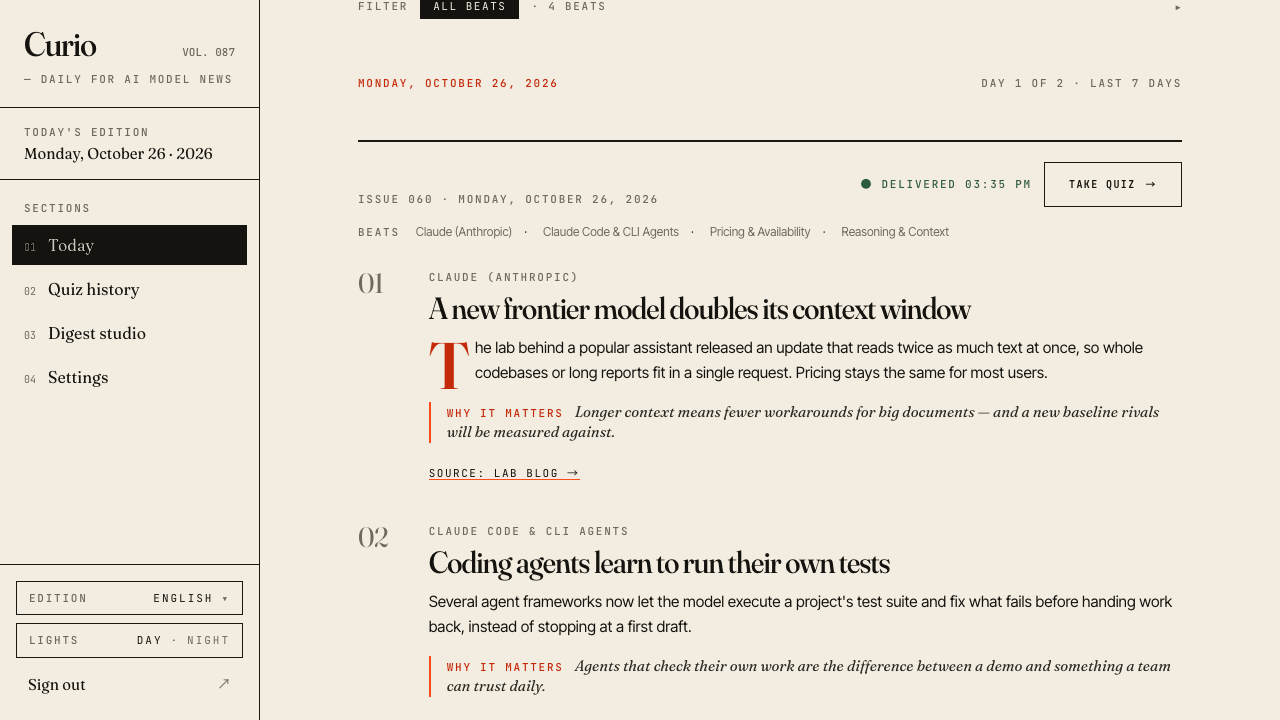
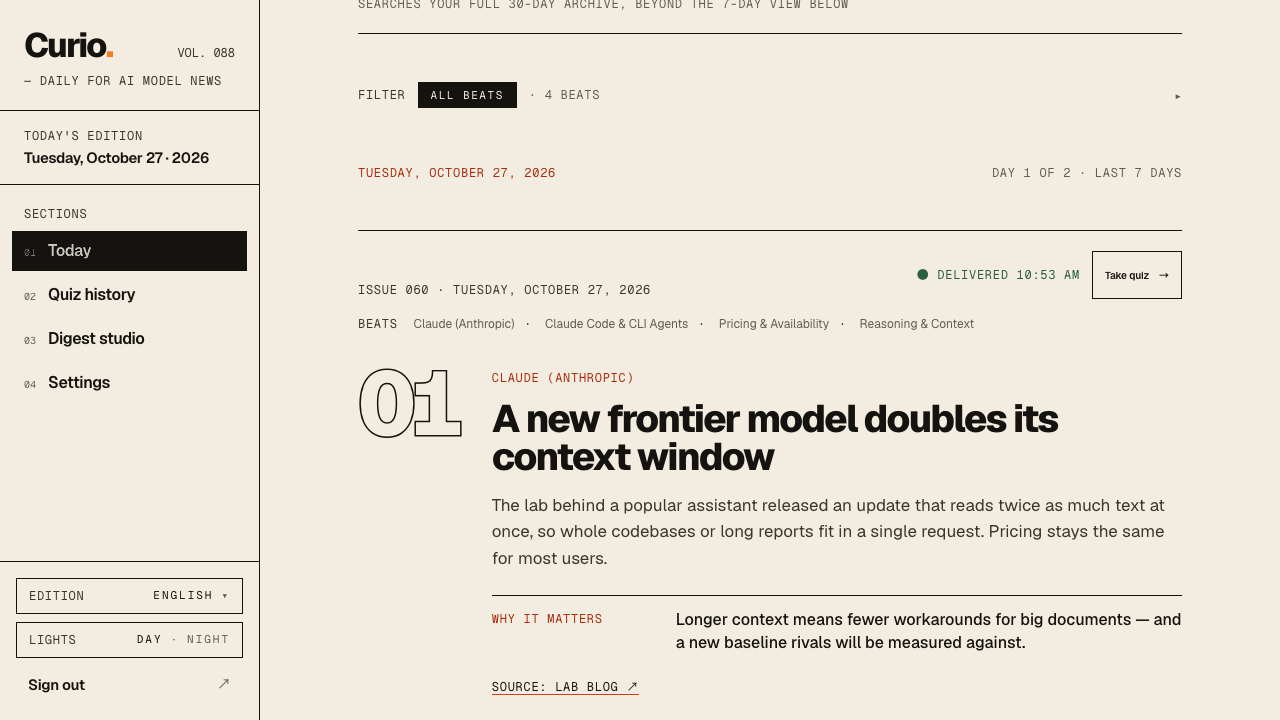
docs: recapture README screenshots for the grid redesign
All 15 images (EN + KO) recaptured from the redesigned UI with every API call stubbed (sample data only); README feature line now describes the ruled-grid layout.

diff --git a/README.md b/README.md
@@ -37,7 +37,7 @@ Curio reads first-party lab blogs (Anthropic, OpenAI, DeepMind, Meta AI, Mistral
 - **Digest Studio** — generate today's digest and send the email yourself, with live progress.
 - **Newsroom dashboard** — readers, digests, topic stats, scheduled-job status with manual triggers, audit log.
 - **Secure sign-in** — email + password with an emailed 6-digit code, or Google.
-- **Editorial reading experience** — a newspaper-style layout in light and dark, a scroll-aware top bar (hairline once you scroll, out of the way while you read down), headlines that wipe into view and copy that inks in word by word. All motion switches off under your device's reduced-motion setting.
+- **Editorial reading experience** — a ruled-grid layout (Geist type, 1px rules, outlined story numbers) in light and dark, a scroll-aware top bar (hairline once you scroll, out of the way while you read down), headlines that wipe into view and copy that inks in word by word. All motion switches off under your device's reduced-motion setting.
 
 ## Tech stack
 
